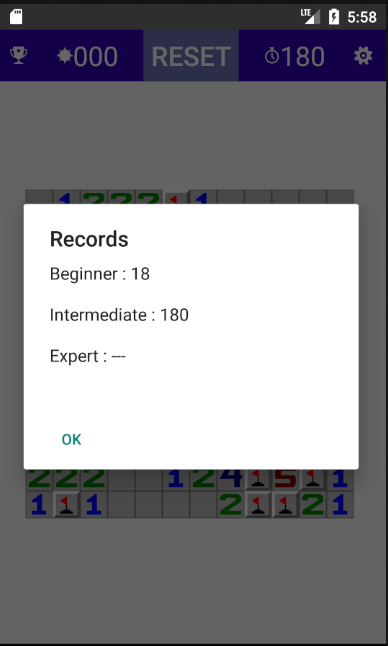
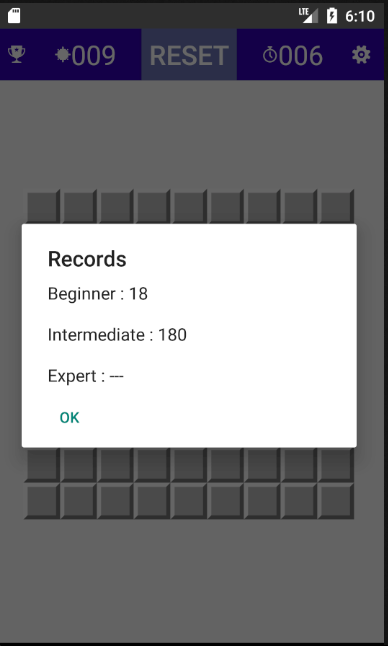
change records spacing

diff --git a/app/src/main/java/com/github/mlee0967/minesweeper/MainActivity.java b/app/src/main/java/com/github/mlee0967/minesweeper/MainActivity.java
@@ -90,15 +90,17 @@ public class MainActivity extends AppCompatActivity {
         SharedPreferences prefs = getSharedPreferences(
                 getResources().getString(R.string.app_name), Context.MODE_PRIVATE);
         StringBuilder sb = new StringBuilder();
-        for (Difficulty difficulty : Difficulty.values()){
-            sb.append(difficulty.toString());
+        Difficulty[] difficulties = Difficulty.values();
+        for (int i=0; i<difficulties.length; ++i){
+            sb.append(difficulties[i].toString());
             sb.append(" : ");
-            int record = prefs.getInt(difficulty.toString(), -1);
+            int record = prefs.getInt(difficulties[i].toString(), -1);
             if(record==-1)
                 sb.append("---");
             else
                 sb.append(record);
-            sb.append("\n\n");
+            if(i != difficulties.length-1)
+                sb.append("\n\n");
         }
 
         AlertDialog.Builder builder = new AlertDialog.Builder(MainActivity.this);
